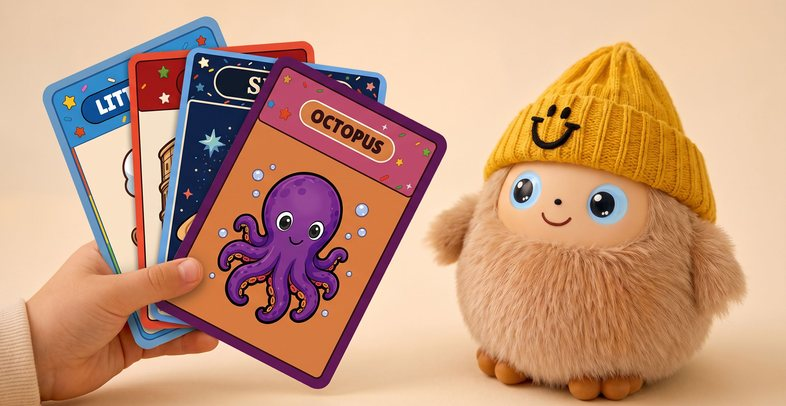
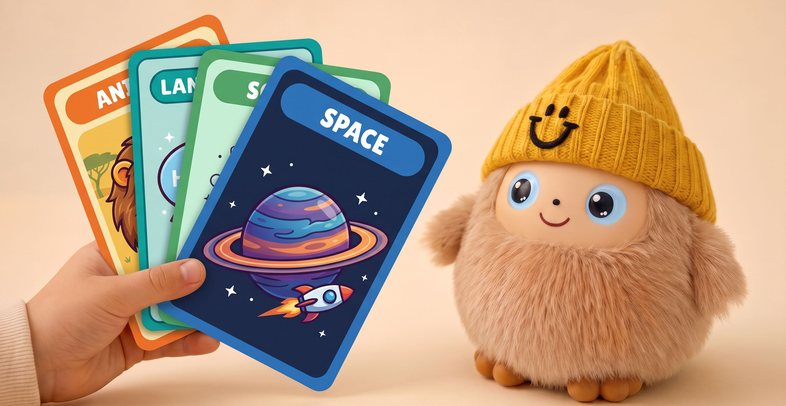
Popup: plain-language copy for parents, new cards and hero
- Title: "What are Discovery Cards?"
- Description: "Picture cards with fun topics like space, animals and
  stories. Your child picks a card, and Tovi starts a conversation about it."
- Topic row and hero photo use the new Tovi-style cards

diff --git a/index.html b/index.html
@@ -289,7 +289,7 @@
   .cat { flex: 0 0 112px; margin-right: 10px; display: flex; flex-direction: column; align-items: center; gap: 12px; }
   .cat-img { width: 100px; }
   .cat-img img {
-    display: block; width: 100px; height: auto; aspect-ratio: 480 / 645; object-fit: cover; border-radius: 5px;
+    display: block; width: 100px; height: auto; aspect-ratio: 3 / 4; object-fit: cover; border-radius: 7px;
     filter: drop-shadow(0 4px 10px rgba(0,0,0,.16));
   }
   .cat span { font-size: 13.4px; font-weight: 900; line-height: 1.1; letter-spacing: -0.03em; text-align: center; white-space: nowrap; }
@@ -750,18 +750,19 @@
     <img class="sheet-hero" src="img/cards/popup-hero-discovery.jpg" alt="A child holding a fan of Discovery Cards next to Tovi" width="786" height="406">
     <div class="sheet-body">
       <div class="sheet-text">
-        <h3 id="sheetTitle">Every Card Unlocks<br>Something New to Discover</h3>
-        <p>Each card gives kids a new topic to explore with Tovi, from stories and animals to countries, space, science, cooking, and more.</p>
+        <h3 id="sheetTitle">What are Discovery Cards?</h3>
+        <p>Picture cards with fun topics like space, animals and stories. Your child picks a card, and Tovi starts a conversation about it.</p>
       </div>
       <div class="cat-marquee" aria-label="Card topics">
         <div class="cat-track" id="catTrack">
-          <div class="cat"><div class="cat-img"><img src="img/cards/discovery/octopus-sm.webp" alt="" width="100" height="134" loading="lazy"></div><span>Animals</span></div>
-          <div class="cat"><div class="cat-img"><img src="img/cards/discovery/space-sm.webp" alt="" width="100" height="134" loading="lazy"></div><span>Space</span></div>
-          <div class="cat"><div class="cat-img"><img src="img/cards/discovery/italy-sm.webp" alt="" width="100" height="134" loading="lazy"></div><span>Countries</span></div>
-          <div class="cat"><div class="cat-img"><img src="img/cards/discovery/chef-sm.webp" alt="" width="100" height="134" loading="lazy"></div><span>Cooking</span></div>
-          <div class="cat"><div class="cat-img"><img src="img/cards/discovery/peterpan-sm.webp" alt="" width="100" height="134" loading="lazy"></div><span>Stories</span></div>
-          <div class="cat"><div class="cat-img"><img src="img/cards/discovery/trex-sm.webp" alt="" width="100" height="134" loading="lazy"></div><span>Dinosaurs</span></div>
-          <div class="cat"><div class="cat-img"><img src="img/cards/discovery/airplane-sm.webp" alt="" width="100" height="134" loading="lazy"></div><span>Science &amp; Tech</span></div>
+          <div class="cat"><div class="cat-img"><img src="img/cards/simple/space.webp" alt="" width="100" height="133" loading="lazy"></div><span>Space</span></div>
+          <div class="cat"><div class="cat-img"><img src="img/cards/simple/languages.webp" alt="" width="100" height="133" loading="lazy"></div><span>Languages</span></div>
+          <div class="cat"><div class="cat-img"><img src="img/cards/simple/science.webp" alt="" width="100" height="133" loading="lazy"></div><span>Science</span></div>
+          <div class="cat"><div class="cat-img"><img src="img/cards/simple/animals.webp" alt="" width="100" height="133" loading="lazy"></div><span>Animals</span></div>
+          <div class="cat"><div class="cat-img"><img src="img/cards/simple/world.webp" alt="" width="100" height="133" loading="lazy"></div><span>World</span></div>
+          <div class="cat"><div class="cat-img"><img src="img/cards/simple/dinosaurs.webp" alt="" width="100" height="133" loading="lazy"></div><span>Dinosaurs</span></div>
+          <div class="cat"><div class="cat-img"><img src="img/cards/simple/stories.webp" alt="" width="100" height="133" loading="lazy"></div><span>Stories</span></div>
+          <div class="cat"><div class="cat-img"><img src="img/cards/simple/music.webp" alt="" width="100" height="133" loading="lazy"></div><span>Music</span></div>
         </div>
       </div>
       <button class="sheet-add" id="sheetAdd">Add 50 Discovery Cards – $10</button>
